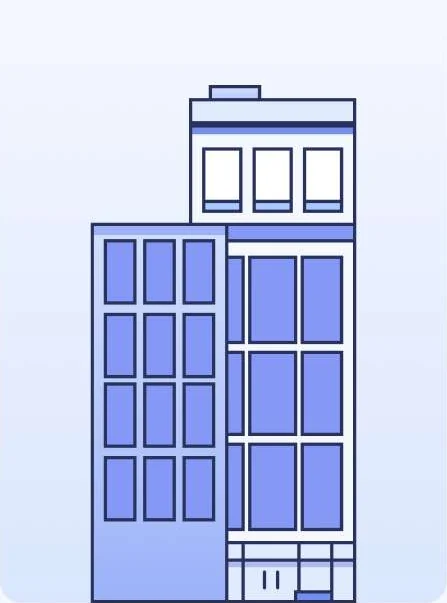
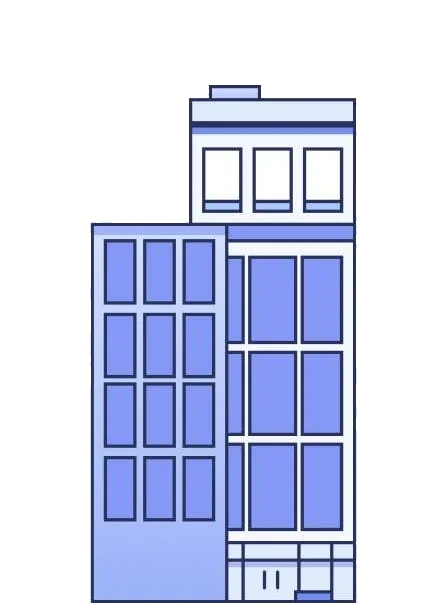
Illustrations only: transparent building art flips in dark mode

Changed region(s): [[0.7852, 0.2985, 1.0, 1.0], [0.0, 0.3881, 0.2036, 1.0], [0.2036, 0.3582, 0.4072, 0.3881]]

diff --git a/src/app/work/landlord/page.tsx b/src/app/work/landlord/page.tsx
@@ -1158,7 +1158,7 @@ export default function MoveOutCaseStudy() {
             h={603}
             alt=""
             sizes="400px"
-            className="mx-auto hidden max-w-sm rounded-3xl lg:block"
+            className={cn("mx-auto hidden max-w-sm lg:block", darkInvert)}
           />
         </div>
 
@@ -1169,7 +1169,7 @@ export default function MoveOutCaseStudy() {
             h={630}
             alt=""
             sizes="400px"
-            className="mx-auto hidden max-w-sm rounded-3xl lg:block"
+            className={cn("mx-auto hidden max-w-sm lg:block", darkInvert)}
           />
           <div>
             <H3>Design considerations</H3>
